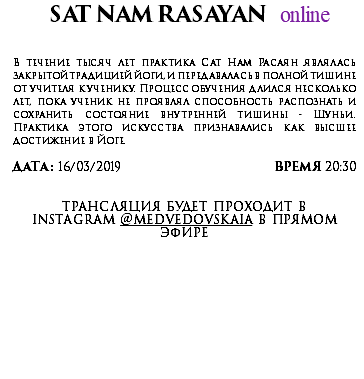
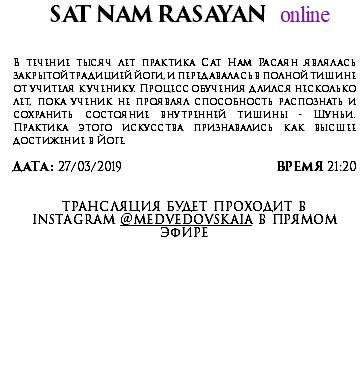
Add files via upload

Changed region(s): [[0.7555, 0.4063, 0.967, 0.4644], [0.1511, 0.4063, 0.3324, 0.4644]]

diff --git a/phone/index.html b/phone/index.html
@@ -29,7 +29,7 @@ if(typeof Muse == "undefined") window.Muse = {}; window.Muse.assets = {"required
       <img class="block" id="u1378_img" src="../images/260112x112.jpg?crc=4238458482" alt="" width="112" height="112"/>
      </div>
      <div class="museBGSize grpelem" id="u1267"><!-- simple frame --></div>
-     <img class="grpelem" id="u1289-23" alt="&nbsp;SAT NAM RASAYAN online В течение тысяч лет практика Сат Нам Расаян являлась закрытой традицией йоги, и передавалась в полной тишине от учителя к ученику. Процесс обучения длился несколько лет, пока ученик не проявлял способность распознать и сохранить состояние внутренней тишины - Шуньи. Практика этого искусства признавались как высшее достижение в Йоге. ДАТА: 16/03/2019 ВРЕМЯ 20:30 трансляция будет проходит в instagram @medvedovskaia в прямом эфире" width="364" height="379" src="../images/u1289-23.png?crc=271573850"/><!-- rasterized frame -->
+     <img class="grpelem" id="u1289-23" alt="&nbsp;SAT NAM RASAYAN online В течение тысяч лет практика Сат Нам Расаян являлась закрытой традицией йоги, и передавалась в полной тишине от учителя к ученику. Процесс обучения длился несколько лет, пока ученик не проявлял способность распознать и сохранить состояние внутренней тишины - Шуньи. Практика этого искусства признавались как высшее достижение в Йоге. ДАТА: 27/03/2019 ВРЕМЯ 21:20 трансляция будет проходит в instagram @medvedovskaia в прямом эфире" width="364" height="379" src="../images/u1289-23.png?crc=151264336"/><!-- rasterized frame -->
      <div class="clearfix grpelem" id="u1300"><!-- group -->
       <div class="clearfix grpelem" id="pu1302-13"><!-- group -->
        <img class="grpelem" id="u1302-13" alt="&nbsp;2000 р Руб. 1300 руб." width="139" height="31" src="../images/u1302-13.png?crc=3790213069"/><!-- rasterized frame -->

diff --git a/index.html b/index.html
@@ -77,7 +77,7 @@ if(typeof Muse == "undefined") window.Muse = {}; window.Muse.assets = {"required
            </div>
           </div>
           <img class="grpelem" id="u344-4" alt="ЗАПИСАТЬСЯ НА ЦЕЛИТЕЛЬНЫЙ СЕАНС" width="533" height="101" src="images/u344-4.png?crc=472885841"/><!-- rasterized frame -->
-          <img class="grpelem" id="u170-25" alt="&nbsp;SAT NAM RASAYAN online В течение тысяч лет практика Сат Нам Расаян являлась закрытой традицией йоги, и передавалась в полной тишине от учителя к ученику. Процесс обучения длился несколько лет, пока ученик не проявлял способность распознать и сохранить состояние внутренней тишины - Шуньи. Практика этого искусства признавались как высшее достижение в Йоге. ДАТА: 16/03/2019 время: 20:30 трансляция будет проходит в instagram @medvedovskaia в прямом эфире" width="882" height="279" src="images/u170-25.png?crc=368590959"/><!-- rasterized frame -->
+          <img class="grpelem" id="u170-25" alt="&nbsp;SAT NAM RASAYAN online В течение тысяч лет практика Сат Нам Расаян являлась закрытой традицией йоги, и передавалась в полной тишине от учителя к ученику. Процесс обучения длился несколько лет, пока ученик не проявлял способность распознать и сохранить состояние внутренней тишины - Шуньи. Практика этого искусства признавались как высшее достижение в Йоге. ДАТА: 27/03/2019 время: 21:20 трансляция будет проходит в instagram @medvedovskaia в прямом эфире" width="882" height="279" src="images/u170-25.png?crc=86804348"/><!-- rasterized frame -->
          </div>
         </div>
        </div>
